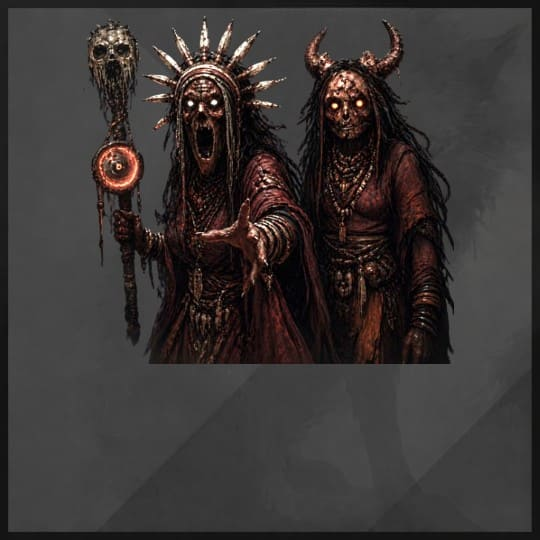
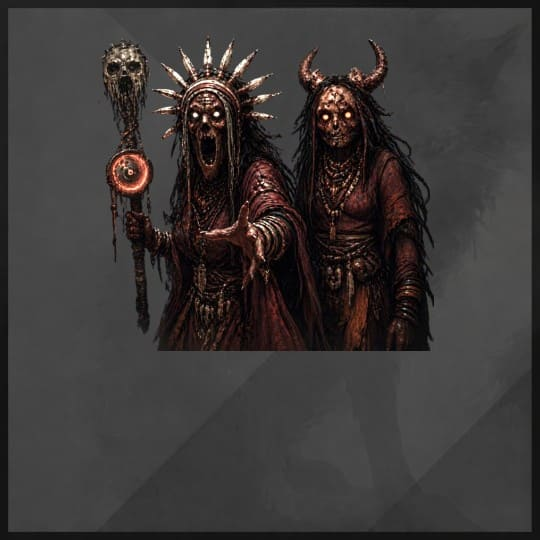
New PC upodate quick play deathmatch mission common skills

Changed region(s): [[0.1481, 0.0296, 0.8593, 0.6815]]

diff --git a/public/js/story.js b/public/js/story.js
@@ -8985,7 +8985,7 @@ const __stories = [
 					},
 					{
 						when: function() {
-							return episode.pvpCounterValue > 10 && episode.mobPhaseTick && (_gameTick - episode.mobPhaseTick) > 6000;
+							return episode.pvpCounterValue > 10 && episode.mobPhaseTick && (_gameTick - episode.mobPhaseTick) > 60000;
 						},
 						do: function() {
 							episode.mobPhaseTick = _gameTick;
@@ -9009,37 +9009,37 @@ const __stories = [
 							_parachute.animate('start', 1);
 						}
 					},
-					{
-						when: function() {
-							return episode.phase === 2 && 
-							(episode.deads.filter(x => !x.remove)?.length ?? 0) === 0;
-						},
-						do: function() {
-							__storyPlaying = false;
-							episode.pvp = episode.war = false;
-							mainCharacter.class = episode.mainClass;
-							delete episode.mainClass;
-							installStoryFinish();
-							episode.phase = 3;
-						}
-					},
-					{
-						when: function() {
-							return episode.phase < 2 && episode.pvpEnded;
-							//episode.enemies dizisinde groupId si olan enemylerin groupId lerini distinctleyerek al ve length i 1 ni diye bak
-							return episode.phase === 1 && 
-							episode.enemies.filter(x => x.groupId && x.health > 0).map(x => x.groupId).filter((value, index, self) => self.indexOf(value) === index)?.length === 1;
-						},
-						do: function() {
-							episode.phase = 2;
-							episode.deads = episode.enemies.filter(x => x.groupId && x.health <= 0);	
-							episode.pauseBgMusic();
-							PlaySound({ key:'deepimpact', volume: 1 });
-							if(mainCharacter)
-								cssAnimations.slowMotion(mainCharacter, 3000, null, null, 450, 20);
+					// {
+					// 	when: function() {
+					// 		return episode.phase === 2 && 
+					// 		(episode.deads.filter(x => !x.remove)?.length ?? 0) === 0;
+					// 	},
+					// 	do: function() {
+					// 		__storyPlaying = false;
+					// 		episode.pvp = episode.war = false;
+					// 		mainCharacter.class = episode.mainClass;
+					// 		delete episode.mainClass;
+					// 		installStoryFinish();
+					// 		episode.phase = 3;
+					// 	}
+					// },
+					// {
+					// 	when: function() {
+					// 		return episode.phase < 2 && episode.pvpEnded;
+					// 		//episode.enemies dizisinde groupId si olan enemylerin groupId lerini distinctleyerek al ve length i 1 ni diye bak
+					// 		return episode.phase === 1 && 
+					// 		episode.enemies.filter(x => x.groupId && x.health > 0).map(x => x.groupId).filter((value, index, self) => self.indexOf(value) === index)?.length === 1;
+					// 	},
+					// 	do: function() {
+					// 		episode.phase = 2;
+					// 		episode.deads = episode.enemies.filter(x => x.groupId && x.health <= 0);	
+					// 		episode.pauseBgMusic();
+					// 		PlaySound({ key:'deepimpact', volume: 1 });
+					// 		if(mainCharacter)
+					// 			cssAnimations.slowMotion(mainCharacter, 3000, null, null, 450, 20);
 
-						}
-					}
+					// 	}
+					// }
 				],
 				do: function() {
 					__account.inventory = [];

diff --git a/public/js/global.js b/public/js/global.js
@@ -4573,10 +4573,10 @@ const mapSprites = [
 			{ min_X: MathRound(4544 * 1.065), round: { rate: .44, dir: __left}, max_X:MathRound(6144 * 1.065), bottom_Gap: 20 },
 		],
 		cliffs: [
-			{ minYRate: 85, maxYRate: 100, min_X: MathRound(1900 * 1.065), max_X: MathRound(2700 * 1.065), background: true },
-			{ minYRate: 85, maxYRate: 100, min_X: MathRound(3400 * 1.065), max_X: MathRound(4200 * 1.065), background: true },
-			{ minYRate: 0, maxYRate: 15, min_X: MathRound(2000 * 1.065), max_X: MathRound(2850 * 1.065), foreground: true },
-			{ minYRate: 0, maxYRate: 15, min_X: MathRound(3300 * 1.065), max_X: MathRound(4150 * 1.065), foreground: true }
+			{ minYRate: 85, maxYRate: 100, min_X: MathRound(1850 * 1.065), max_X: MathRound(2700 * 1.065), background: true },
+			{ minYRate: 85, maxYRate: 100, min_X: MathRound(3400 * 1.065), max_X: MathRound(4250 * 1.065), background: true },
+			{ minYRate: 0, maxYRate: 15, min_X: MathRound(1950 * 1.065), max_X: MathRound(2650 * 1.065), foreground: true },
+			{ minYRate: 0, maxYRate: 15, min_X: MathRound(3500 * 1.065), max_X: MathRound(4200 * 1.065), foreground: true }
 		],
 		mobs: [
 			{

diff --git a/public/js/map.js b/public/js/map.js
@@ -61,8 +61,8 @@ function map(_m) {
 	this.status = _m.status ?? 'loading';
 	this.loadObjects = _m.loadObjects;
 	this.loadEnemies = _m.loadEnemies;
-	this.cliffs = structuredClone2(_mapSprite.cliffs);
-	this.playGrounds = structuredClone2(_mapSprite.playGrounds);
+	this.cliffs = !_mapSprite.cliffs ? undefined : structuredClone2(_mapSprite.cliffs);
+	this.playGrounds = !_mapSprite.playGrounds ? undefined : structuredClone2(_mapSprite.playGrounds);
 	this.enemies = [];
 	this.seenEnemies = [];
 	this.activeSpells = [];
